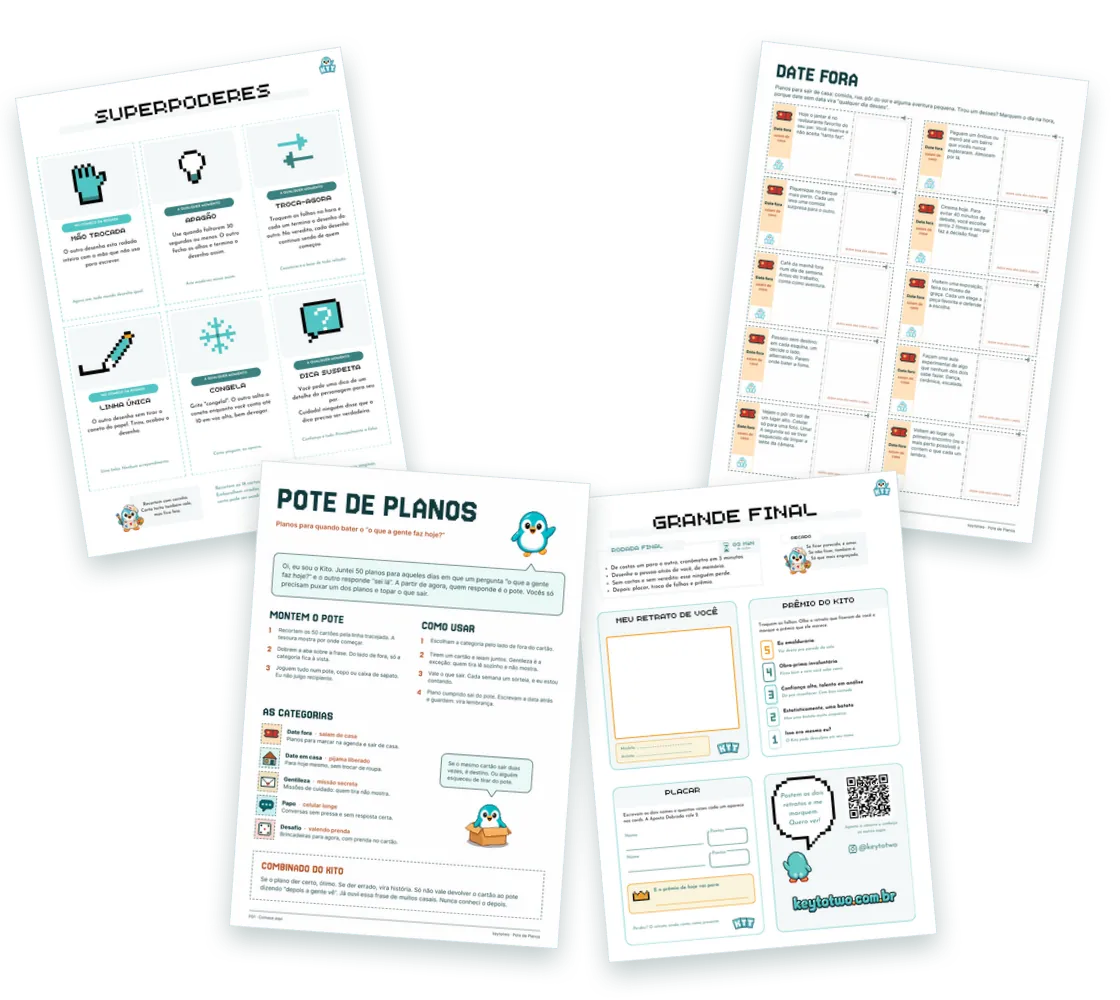
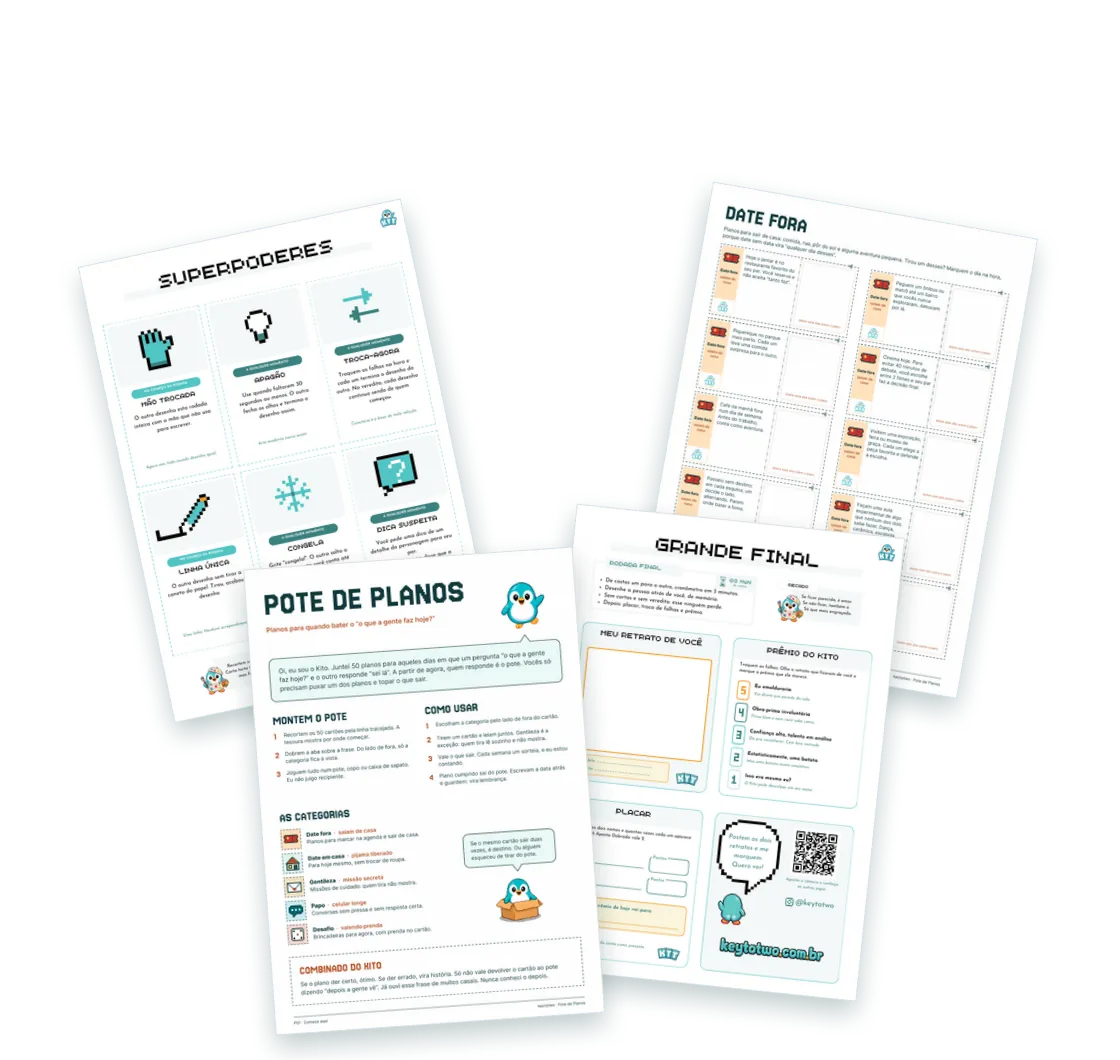
feat: arco Sol e páginas abertas em V na seção da impressora

diff --git a/src/components/sections/ExperienceSections.tsx b/src/components/sections/ExperienceSections.tsx
@@ -10,7 +10,7 @@ import { CutLine } from '../ui/CutLine'
 // A linha de recorte entra aqui, logo depois da hero (DESIGN.md › The Three Cuts Rule).
 export function ProductExperience() {
   return <section className="page-section experience-section" aria-labelledby="experiencia"><CutLine /><div className="content-width experience-layout">
-    <figure className="experience-art"><div className="experience-pages"><img src="/media/experience/gratuitos-paginas-840.webp" srcSet="/media/experience/gratuitos-paginas-560.webp 560w, /media/experience/gratuitos-paginas-840.webp 840w, /media/experience/gratuitos-paginas-1120.webp 1120w" sizes="(max-width: 767px) calc(100vw - 32px), 560px" alt="Páginas da Hora dos Artistas e do Pote de Planos espalhadas sobre a mesa" width="1120" height="1000" loading="lazy" decoding="async" /></div><figcaption>Hora dos Artistas e Pote de Planos, <Link className="inline-link" to="/gratuitos">os jogos gratuitos</Link>.</figcaption></figure>
+    <figure className="experience-art"><div className="experience-pages"><img src="/media/experience/gratuitos-paginas-840.webp" srcSet="/media/experience/gratuitos-paginas-560.webp 560w, /media/experience/gratuitos-paginas-840.webp 840w, /media/experience/gratuitos-paginas-1120.webp 1120w" sizes="(max-width: 767px) calc(100vw - 32px), 560px" alt="Páginas da Hora dos Artistas e do Pote de Planos espalhadas sobre a mesa" width="1120" height="1060" loading="lazy" decoding="async" /></div><figcaption>Hora dos Artistas e Pote de Planos, <Link className="inline-link" to="/gratuitos">os jogos gratuitos</Link>.</figcaption></figure>
     <div className="experience-copy"><h2 id="experiencia" tabIndex={-1}>A próxima rodada sai da impressora.</h2><p className="lead">Cartas na mesa, uma tentativa duvidosa e aquela vontade de jogar de novo.</p><p>Um dia é desenho, no outro é tabuleiro ou investigação. Vocês imprimem em casa e o resto fica com a dupla.</p><Link className="button button-primary" to="/loja">Ver os jogos</Link></div>
   </div></section>
 }

diff --git a/src/styles.css b/src/styles.css
@@ -293,11 +293,12 @@ html[data-kito-carrying], html[data-kito-carrying] * { cursor: grabbing !importa
 .experience-copy h2 { margin-bottom: var(--space-md); }
 .experience-copy p { max-width: 42ch; }
 .experience-copy .button { margin-top: var(--space-sm); }
-/* Páginas dos gratuitos sobre o bloco Sol, passando dele em cima, embaixo e dos lados. O bloco tem o mesmo inset que
-   scripts/prepare-free-pages.mjs usa para compor a arte, em % da imagem: acompanha qualquer largura. */
+/* Páginas dos gratuitos sobre um arco Sol, passando dele dos lados e embaixo. O arco tem a geometria que
+   scripts/prepare-free-pages.mjs usa para compor a arte (tela 1120 × 1060, arco de x 160 a 960 e de y 20 a 880), em %
+   da imagem: acompanha qualquer largura. O topo é meia-volta, raio de 400 nos dois eixos. */
 .experience-art { margin: 0; min-width: 0; width: min(100%, 560px); justify-self: center; }
 .experience-pages { position: relative; }
-.experience-pages::before { content: ''; position: absolute; inset: 17% 5.36% 16%; border-radius: var(--radius-lg); background: var(--color-sun); }
+.experience-pages::before { content: ''; position: absolute; inset: calc(100% * 20 / 1060) calc(100% * 160 / 1120) calc(100% * 180 / 1060); border-radius: 50% 50% var(--radius-lg) var(--radius-lg) / calc(100% * 400 / 860) calc(100% * 400 / 860) var(--radius-lg) var(--radius-lg); background: var(--color-sun); }
 .experience-pages img { position: relative; display: block; width: 100%; height: auto; }
 .experience-art figcaption { margin-top: var(--space-sm); text-align: center; font-size: var(--text-small); color: var(--color-ink-soft); }
 .how-section { background: var(--color-paper); }
